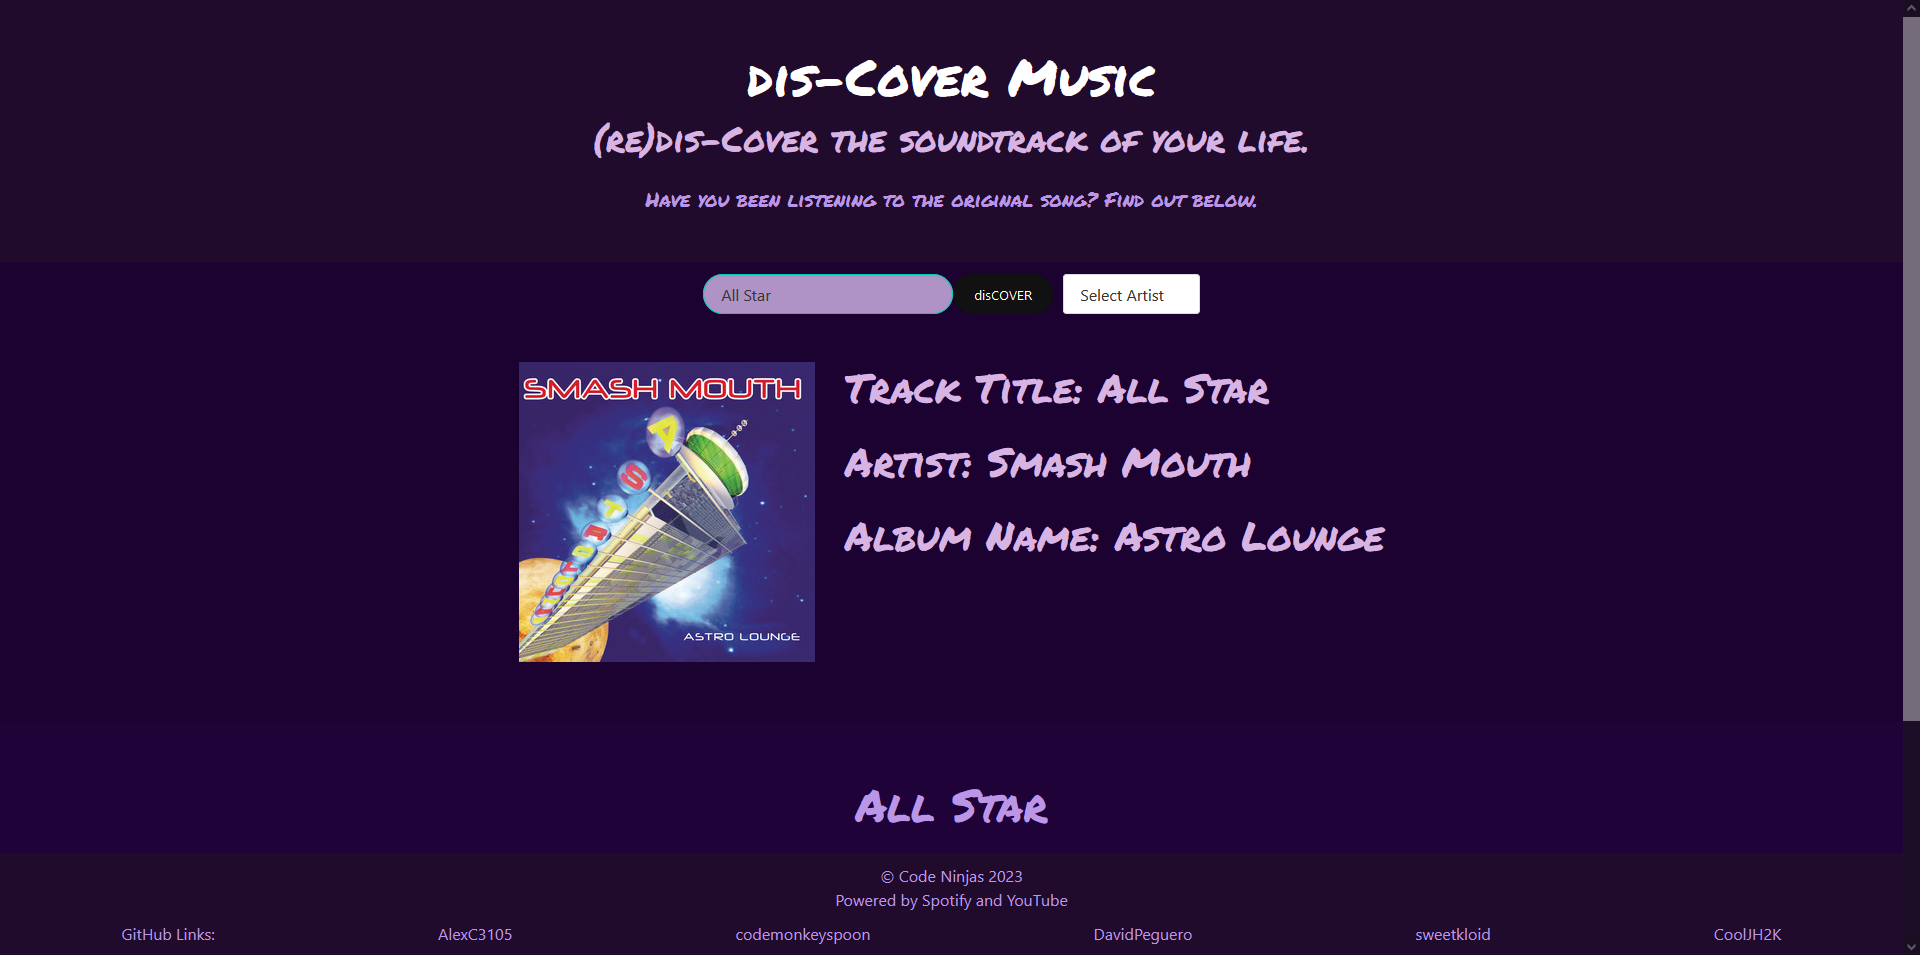
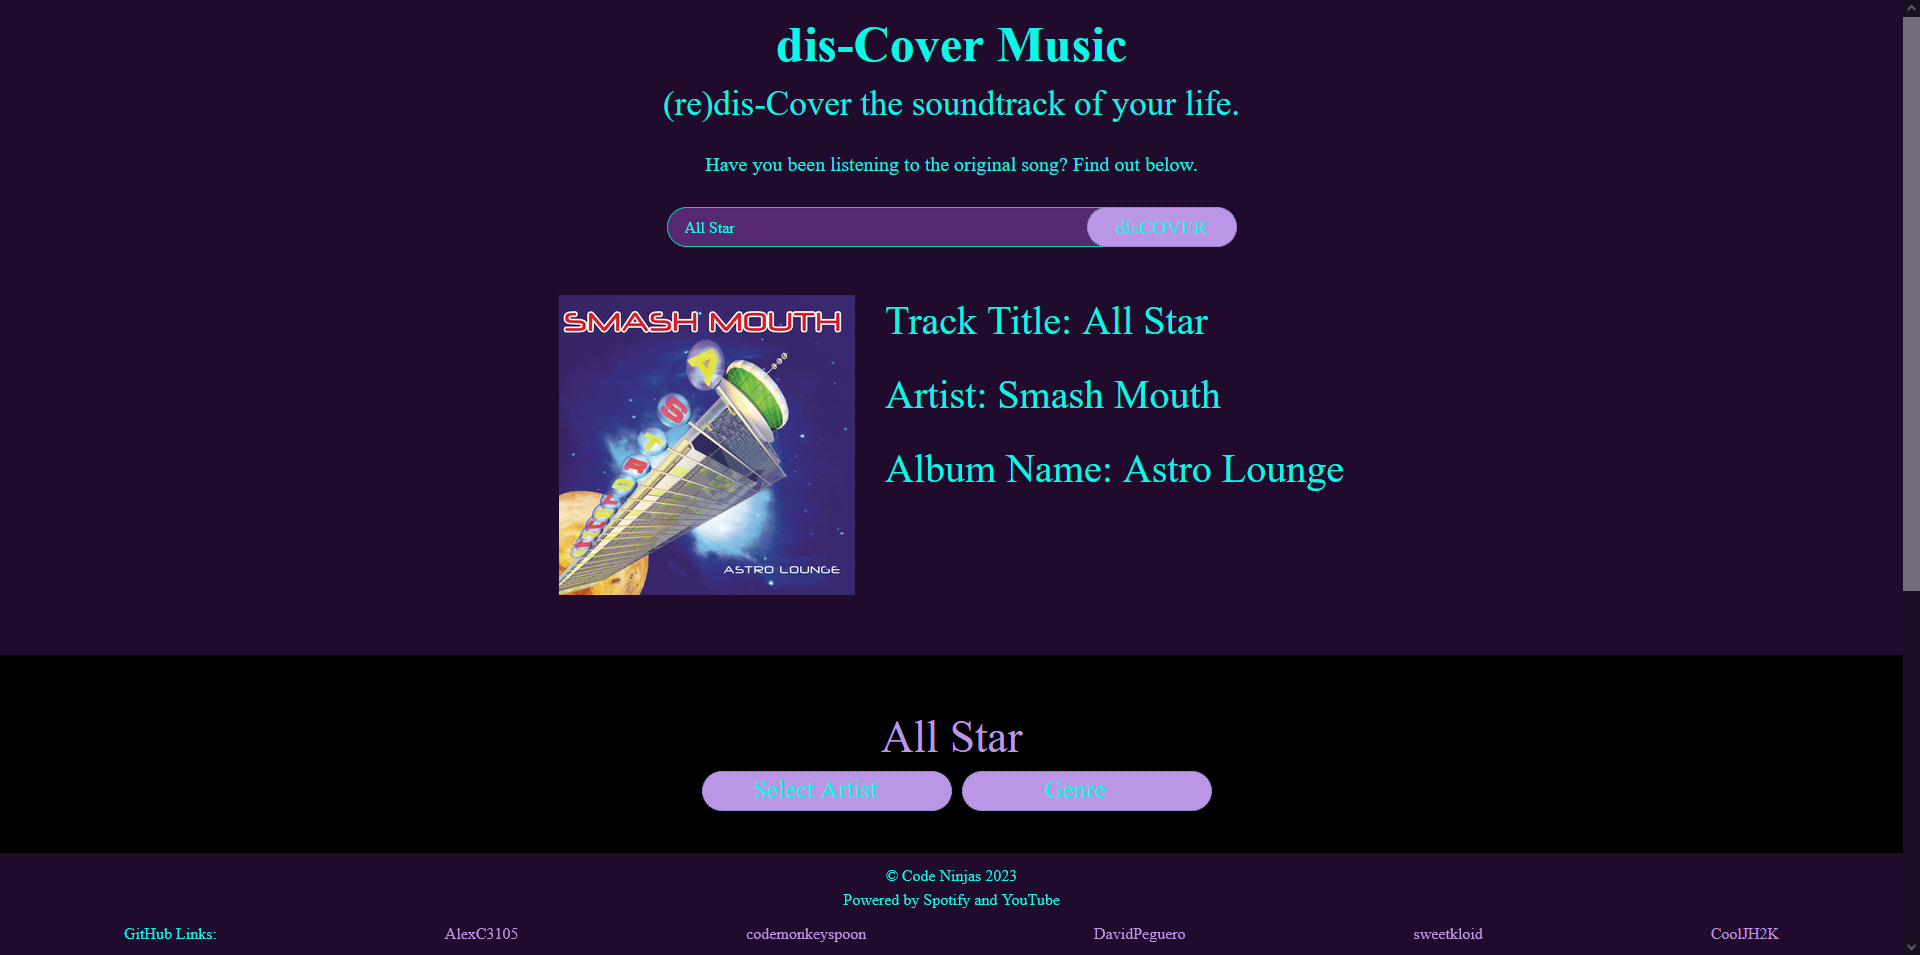
Replaced one of the placeholder images with one of an application I created with peers.

diff --git a/index.html b/index.html
@@ -47,10 +47,10 @@
             <section id="work" class="page-section">
                 <h2>Work</h2>
                 <div class="flex-container">
-                    <a href="#" class="flex-item surf-report">
+                    <a href="#" class="flex-item dis-cover-music">
                         <div>
-                            <h3>Surf Report</h3>
-                            <span>MERN Stack</span>
+                            <h3>dis-Cover Music</h3>
+                            <span>HTML/CSS</span>
                         </div>
                     </a>
                     <a href="#" class="flex-item led-wall">

diff --git a/assets/css/style.css b/assets/css/style.css
@@ -145,7 +145,7 @@ section div a div {
 }
 
 /* Stylizes the Surf Report image in the Work section */
-.surf-report {
+.dis-cover-music {
     background-image: url("../images/dis-cover-music-screenshot.png");
     display: flex;
     flex-direction: row;
